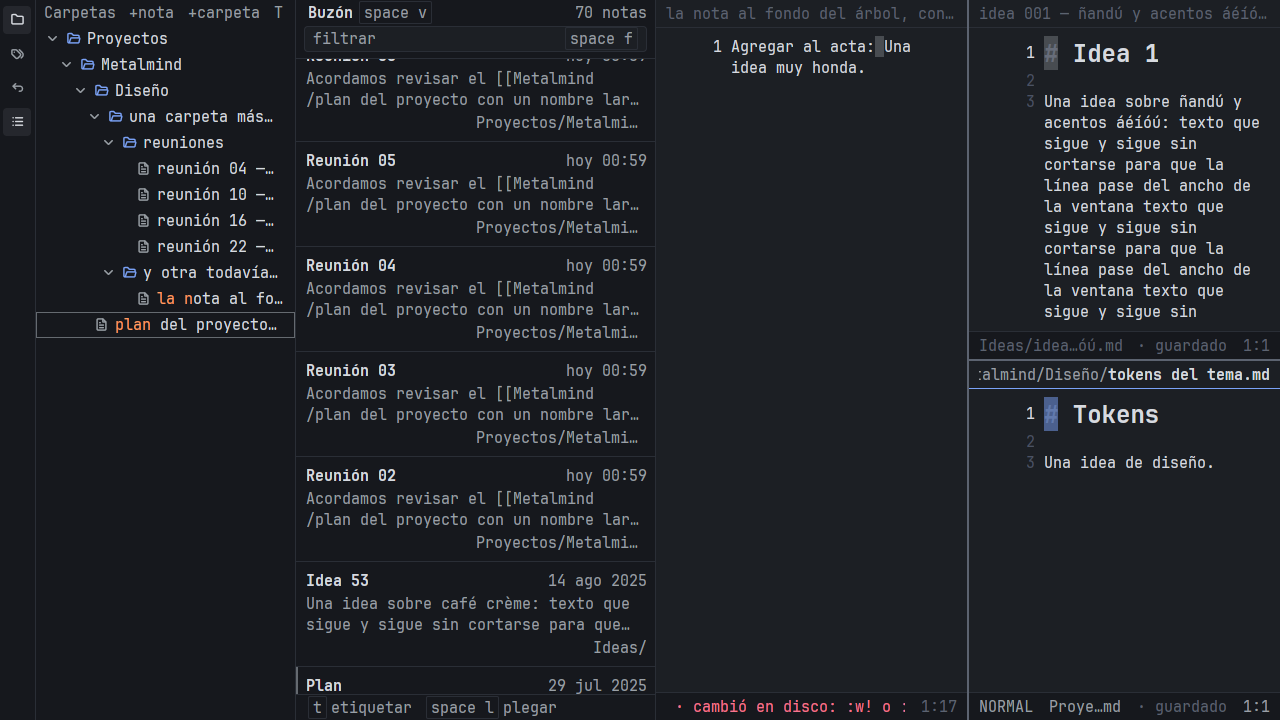
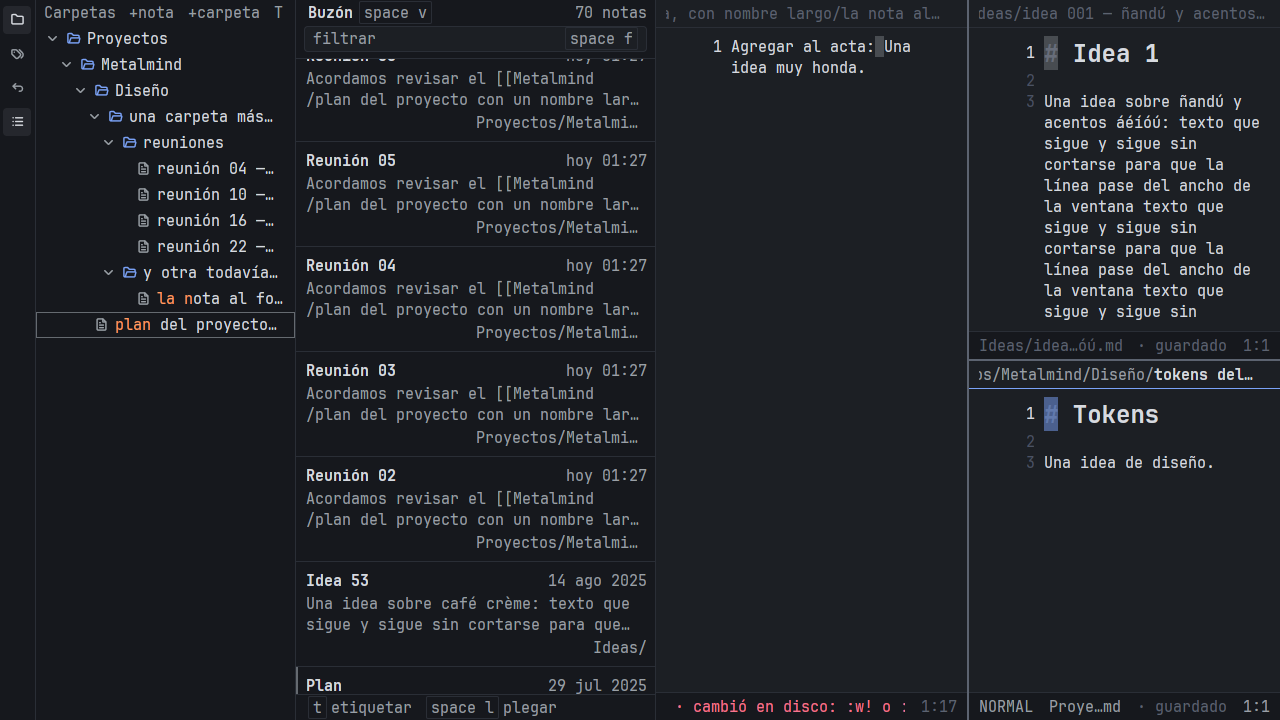
fix(ui): un nombre largo no esconde las migas y la miga conserva los espacios
Ronda de revisión de #208: el nombre de la nota y las carpetas se recortan
en proporción a lo que miden, así que la carpeta más cercana sigue a la
vista y a un clic en un panel angosto; y list::show_folder ya no recorta
espacios al borde, que son parte del nombre de una carpeta.

diff --git a/crates/metalmind-ui/src/editor/path_header.rs b/crates/metalmind-ui/src/editor/path_header.rs
@@ -6,7 +6,6 @@
 use gpui_kit::{
     Context, Div, InteractiveElement as _, IntoElement, MouseButton, ParentElement as _,
     SharedString, StatefulInteractiveElement as _, Styled as _, div, prelude::FluentBuilder as _,
-    relative,
 };
 use metalmind_keymap::{Command, Invocation, View};
 use metalmind_vault::VaultPath;
@@ -62,27 +61,19 @@ impl Editor {
         let split = self.workspace.read(cx).tree().len() > 1;
         let key =
             AppKeymap::get(cx).keys_for(Command::ShowFolder.into(), |view| view == View::Editor);
-        let (name_color, folder_color) = if focused {
-            (theme.ui.pane_header_foreground, theme.ui.pane_header_folder)
-        } else {
-            (
-                theme.ui.pane_header_unfocused,
-                theme.ui.pane_header_unfocused,
-            )
-        };
-        let nearest = path.folders.len().checked_sub(1);
-        let crumbs = path.folders.iter().enumerate().map(|(at, folder)| {
-            let hint = key.as_deref().filter(|_| Some(at) == nearest);
-            crumb(self.pane, at, folder, hint, folder_color, theme)
-        });
         let full: SharedString = note
             .map_or_else(|| path.name.clone(), |note| note.to_string())
             .into();
+        let line = PathLine {
+            pane: self.pane,
+            path,
+            full,
+            focused,
+            key,
+        };
         div()
-            .flex()
             .flex_none()
             .min_w_0()
-            .items_center()
             .px(theme.layout.pane_header_padding_x)
             .py(theme.layout.pane_header_padding_y)
             .border_b(theme.stroke.border)
@@ -96,10 +87,47 @@ impl Editor {
                 MouseButton::Left,
                 cx.listener(|editor, _, window, cx| editor.take_focus(window, cx)),
             )
+            .child(line.render(theme))
+    }
+}
+
+/// Las migas y el nombre, en una línea.
+struct PathLine {
+    pane: PaneId,
+    path: PanePath,
+    /// La ruta entera, para el tooltip del nombre.
+    full: SharedString,
+    focused: bool,
+    /// La tecla de `list::show_folder`, en el tooltip de la carpeta de la nota.
+    key: Option<String>,
+}
+
+impl PathLine {
+    /// Si no cabe, se recortan las dos partes en proporción a lo que miden:
+    /// el nombre por la derecha y las carpetas por la izquierda, para que
+    /// quede a la vista la más cercana a la nota.
+    fn render(self, theme: &Theme) -> Div {
+        let (name_color, folder_color) = if self.focused {
+            (theme.ui.pane_header_foreground, theme.ui.pane_header_folder)
+        } else {
+            (
+                theme.ui.pane_header_unfocused,
+                theme.ui.pane_header_unfocused,
+            )
+        };
+        let nearest = self.path.folders.len().checked_sub(1);
+        let crumbs = self.path.folders.iter().enumerate().map(|(at, folder)| {
+            let hint = self.key.as_deref().filter(|_| Some(at) == nearest);
+            crumb(self.pane, at, folder, hint, folder_color, theme)
+        });
+        let full = self.full;
+        div()
+            .flex()
+            .min_w_0()
+            .items_center()
             .child(
-                // Lo que no cabe se pierde por la izquierda: quedan a la vista
-                // las carpetas más cercanas a la nota.
                 div()
+                    .debug_selector(|| "pane-path-crumbs".to_owned())
                     .flex()
                     .min_w_0()
                     .overflow_hidden()
@@ -109,17 +137,17 @@ impl Editor {
             .child(
                 div()
                     .id(SharedString::from(format!("pane-path-name-{}", self.pane)))
-                    .flex_shrink_0()
-                    .max_w(relative(1.))
+                    .debug_selector(|| "pane-path-name".to_owned())
+                    .min_w_0()
                     .truncate()
                     .text_color(name_color)
-                    .font_weight(if focused {
+                    .font_weight(if self.focused {
                         theme.text.strong
                     } else {
                         theme.text.normal
                     })
                     .tooltip(move |_, cx| Tooltip::view(full.clone(), cx))
-                    .child(path.name),
+                    .child(self.path.name),
             )
     }
 }
@@ -160,6 +188,10 @@ fn crumb(
         )
         .child("/")
 }
+
+#[cfg(test)]
+#[path = "path_header_tests.rs"]
+mod layout_tests;
 
 #[cfg(test)]
 mod tests {

diff --git a/crates/metalmind-ui/src/editor/path_header_tests.rs b/crates/metalmind-ui/src/editor/path_header_tests.rs
@@ -1,0 +1,57 @@
+use gpui_kit::{
+    Bounds, IntoElement, Pixels, Render, TestAppContext, VisualTestContext, Window, px,
+};
+use metalmind_config::Config;
+
+use super::*;
+
+struct LineProbe {
+    width: Pixels,
+}
+
+impl Render for LineProbe {
+    fn render(&mut self, _: &mut Window, _: &mut Context<Self>) -> impl IntoElement {
+        let theme = Theme::with_font(&Config::defaults().unwrap(), "Mono".into());
+        let note = VaultPath::new(
+            "Proyectos/Metalmind/una nota con un nombre larguísimo que no cabe en un panel angosto.md",
+        )
+        .unwrap();
+        let line = PathLine {
+            pane: crate::workspace::PaneTree::new().focus(),
+            path: PanePath::new(Some(&note), ""),
+            full: note.to_string().into(),
+            focused: true,
+            key: None,
+        };
+        div().w(self.width).child(line.render(&theme))
+    }
+}
+
+/// Las cajas de las migas y del nombre en un panel de `width`.
+fn laid_out(width: Pixels) -> (Bounds<Pixels>, Bounds<Pixels>) {
+    let mut cx = TestAppContext::single();
+    let (_, cx): (_, &mut VisualTestContext) = cx.add_window_view(|_, _| LineProbe { width });
+    cx.run_until_parked();
+    (
+        cx.debug_bounds("pane-path-crumbs").unwrap(),
+        cx.debug_bounds("pane-path-name").unwrap(),
+    )
+}
+
+#[test]
+fn en_un_panel_ancho_se_ven_enteros() {
+    let (crumbs, name) = laid_out(px(10_000.));
+    assert!(name.left() >= crumbs.right(), "{crumbs:?} {name:?}");
+}
+
+/// Un nombre larguísimo no se come las migas: las dos partes se recortan
+/// y la carpeta más cercana sigue ahí para el clic.
+#[test]
+fn un_nombre_largo_deja_ver_las_migas() {
+    let (wide_crumbs, _) = laid_out(px(10_000.));
+    let width = px(300.);
+    let (crumbs, name) = laid_out(width);
+    assert!(crumbs.size.width > px(0.), "{crumbs:?}");
+    assert!(crumbs.size.width < wide_crumbs.size.width, "{crumbs:?}");
+    assert!(name.right() <= width, "{name:?}");
+}

diff --git a/crates/metalmind-ui/src/note_list/source.rs b/crates/metalmind-ui/src/note_list/source.rs
@@ -30,7 +30,7 @@ pub fn folder_to_show(
     index: &VaultIndex,
 ) -> Result<VaultPath, FolderError> {
     let folder = match named {
-        Some(named) => VaultPath::new(named.trim().trim_end_matches('/'))?,
+        Some(named) => VaultPath::new(named.trim_end_matches('/'))?,
         None => note
             .and_then(VaultPath::parent)
             .ok_or(FolderError::NotInVault)?,
@@ -287,6 +287,25 @@ mod tests {
             .map(|folder| folder.as_str().to_owned())
             .map_err(|error| error.to_string());
         assert_eq!(shown, expected.map(str::to_owned).map_err(str::to_owned));
+    }
+
+    /// Un espacio al borde es parte del nombre: la miga de `notas ` no
+    /// lleva a `notas`.
+    #[test]
+    fn la_carpeta_nombrada_conserva_sus_espacios() {
+        let dir = tempfile::tempdir().unwrap();
+        for folder in ["notas", "notas ", " ideas"] {
+            fs::create_dir_all(dir.path().join(folder)).unwrap();
+            fs::write(dir.path().join(folder).join("a.md"), "").unwrap();
+        }
+        let (vault, _updates) = Vault::open(dir.path()).unwrap();
+        let index = vault.snapshot();
+        for named in ["notas ", " ideas", "notas"] {
+            let shown = folder_to_show(Some(named), None, &index).unwrap();
+            assert_eq!(shown.as_str(), named);
+        }
+        let shown = folder_to_show(Some("notas /"), None, &index).unwrap();
+        assert_eq!(shown.as_str(), "notas ");
     }
 
     #[rstest]

diff --git a/docs/research/03-core-architecture.md b/docs/research/03-core-architecture.md
@@ -710,7 +710,7 @@ Los números del árbol (armarlo, abrir y cerrar una carpeta, filtrar y aplicar 
 - La vista coloca cada línea según lo que mide (`editor/rows.rs`, puro): la primera puede asomar recortada por arriba y la rueda avanza por los píxeles de cada línea, así que un heading alto se recorre más despacio en líneas. El cursor, la selección, las coincidencias de la búsqueda, el preedit del IME y los números del margen usan el alto de su línea; los números quedan centrados junto al heading.
 - Los tramos de cada línea pasan a `TextRun` de GPUI con color, peso, cursiva, tachado y fondo del tema (`editor/markdown.rs`, puro, y `editor/text.rs`); el fondo de un bloque cercado se pinta a lo ancho de la columna de la nota (abajo, "Ancho de lectura"). Un link no resuelto se pregunta al `LinkIndex` del vault de la ventana, por cada link visible; con un lote nuevo del watcher, el editor se repinta.
 - **Ancho de lectura** (2026-10-29, [#172](https://github.com/alex-glez-felix/metalmind/issues/172)): el texto de una nota mide a lo más `layout.note_max_width` columnas del tema (80 en los de fábrica) y, en un panel más ancho, se centra con sus números a la izquierda, como la dirección A de [`docs/design/direccion-d/`](../design/direccion-d/). Vale siempre y en cada panel de un split, con la lista abierta o plegada: un panel angosto ya es más angosto que la columna y queda como antes. El área del texto sale de `reading_area` (`editor/element/measures.rs`, pura) y todo lo demás la sigue sin saberlo: el ancho que parte las filas (`Screen`) y el que corre la vista sin `wrap` son el de la columna, el ratón cae en el `FrameLayout` pintado (un clic en el aire a los lados va al principio o al final de la fila), y el fondo del margen, de un bloque de código y de una selección `V` llegan hasta el borde de la columna más `editor.padding`, no hasta el del panel.
-- **Ruta sobre cada panel** (2026-10-31, [#164](https://github.com/alex-glez-felix/metalmind/issues/164), paso 2 de la dirección D): en lugar de una barra de pestañas, cada panel lleva arriba la ruta de su nota en el vault (`editor/path_header.rs`): las carpetas, de la raíz hacia adentro, y el nombre al final, en `ui_sm`. Cada carpeta es una miga que invoca `list::show_folder` con su ruta: la lista de notas pasa a esa carpeta (con sus subcarpetas), elige la nota del panel si es de ahí y toma el foco; sin argumento (`space c`) es la carpeta de la nota enfocada, y la raíz son todas las notas. Va siempre, también con un solo panel y la lista plegada, como en las direcciones A y D: aparecer con la lista movería la nota hacia abajo al abrirla. Lo que no cabe se pierde por la izquierda, para que se vean las carpetas más cercanas; un nombre más largo que el panel se recorta y el tooltip da la ruta entera. Con varios paneles, la línea bajo la ruta del enfocado es `ui.pane_header_focus`; el texto de un panel sin foco va en `ui.pane_header_unfocused`. Cada panel centra su nota en su propio ancho (arriba): el encabezado no cambia eso, solo le quita su alto.
+- **Ruta sobre cada panel** (2026-10-31, [#164](https://github.com/alex-glez-felix/metalmind/issues/164), paso 2 de la dirección D): en lugar de una barra de pestañas, cada panel lleva arriba la ruta de su nota en el vault (`editor/path_header.rs`): las carpetas, de la raíz hacia adentro, y el nombre al final, en `ui_sm`. Cada carpeta es una miga que invoca `list::show_folder` con su ruta: la lista de notas pasa a esa carpeta (con sus subcarpetas), elige la nota del panel si es de ahí y toma el foco; sin argumento (`space c`) es la carpeta de la nota enfocada, y la raíz son todas las notas. Va siempre, también con un solo panel y la lista plegada, como en las direcciones A y D: aparecer con la lista movería la nota hacia abajo al abrirla. Si no cabe, carpetas y nombre se recortan en proporción a lo que miden: las carpetas por la izquierda, para que se vea la más cercana, y el nombre por la derecha; el tooltip del nombre da la ruta entera. Un espacio al borde del nombre de una carpeta es parte del nombre: la miga lo conserva. Con varios paneles, la línea bajo la ruta del enfocado es `ui.pane_header_focus`; el texto de un panel sin foco va en `ui.pane_header_unfocused`. Cada panel centra su nota en su propio ancho (arriba): el encabezado no cambia eso, solo le quita su alto.
 - Capturas de los dos temas, sobre la nota de `crates/metalmind-syntax/tests/fixtures/estilos.md`: desde el 2026-10-19 son la pantalla `editor` de `scripts/capturas.sh` ([diseño](../design.md#proceso)).
 
 ### Estado (`metalmind-ui`, marks en el margen, 2026-10-18)
